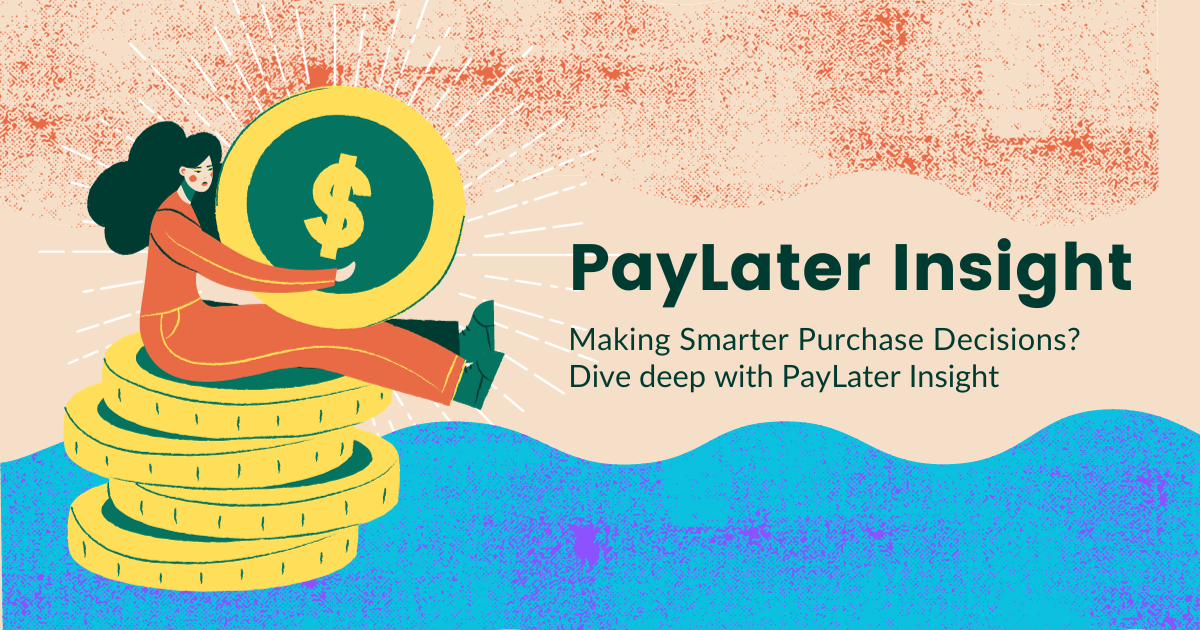
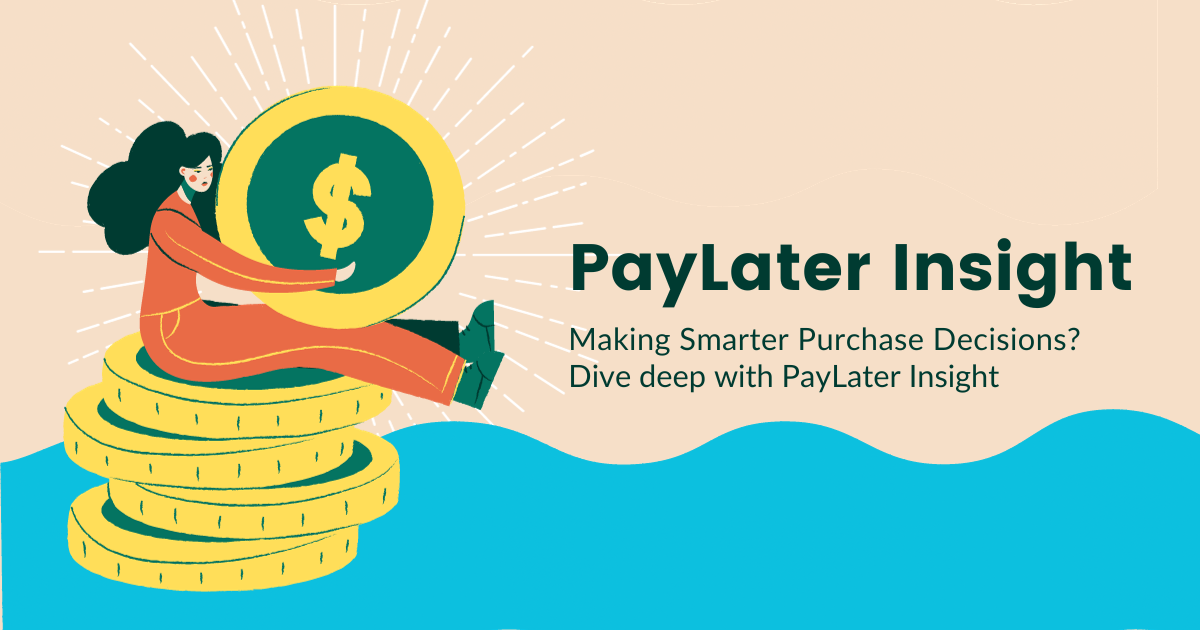
fix: update og image

Changed region(s): [[0.0, 0.6635, 1.0, 1.0], [0.0, 0.0, 0.9867, 0.3619]]

diff --git a/config/site.ts b/config/site.ts
@@ -3,7 +3,7 @@ import { SiteConfig } from "./../types";
 export const siteConfig: SiteConfig = {
   name: "PayLater Insight",
   description:
-    "PayLater-Insight: Instantly calculate and analyze interest on your SPayLater plans, empowering smarter purchase decisions.",
+    "Instantly calculate and analyze interest on your SPayLater plans, empowering smarter purchase decisions.",
   url: "https://www.paylaterinsight.com",
   ogImage: "https://www.paylaterinsight.com/paylater-insight.png",
   links: {
